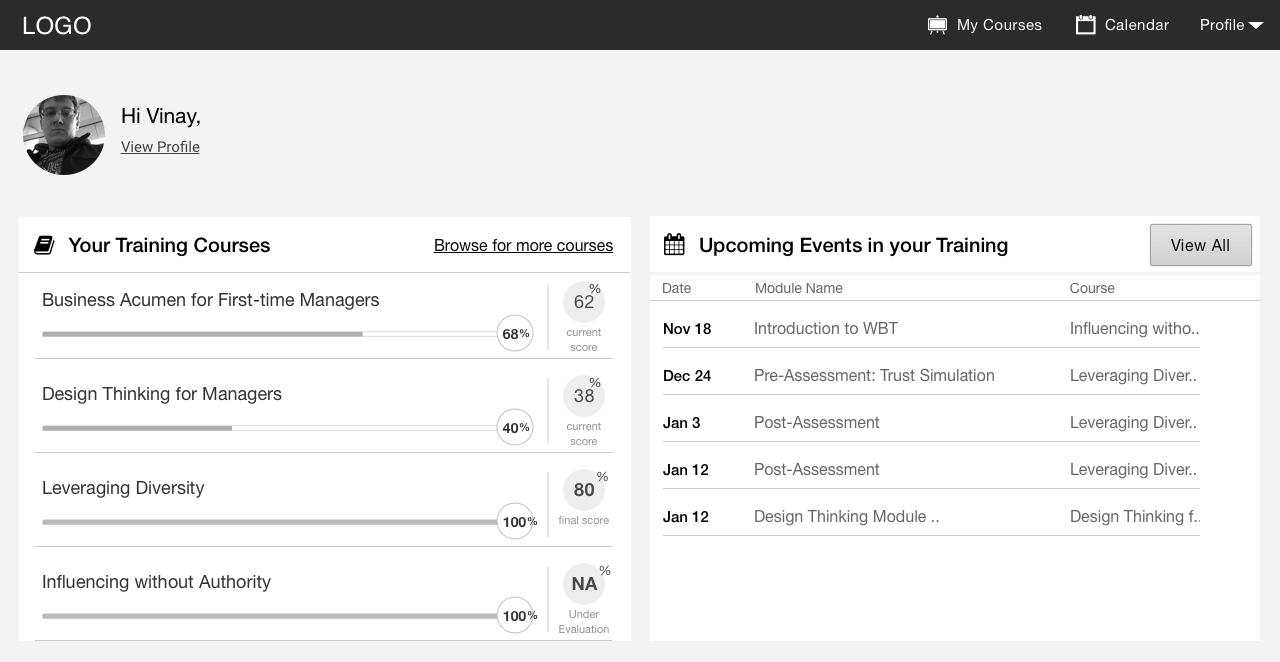
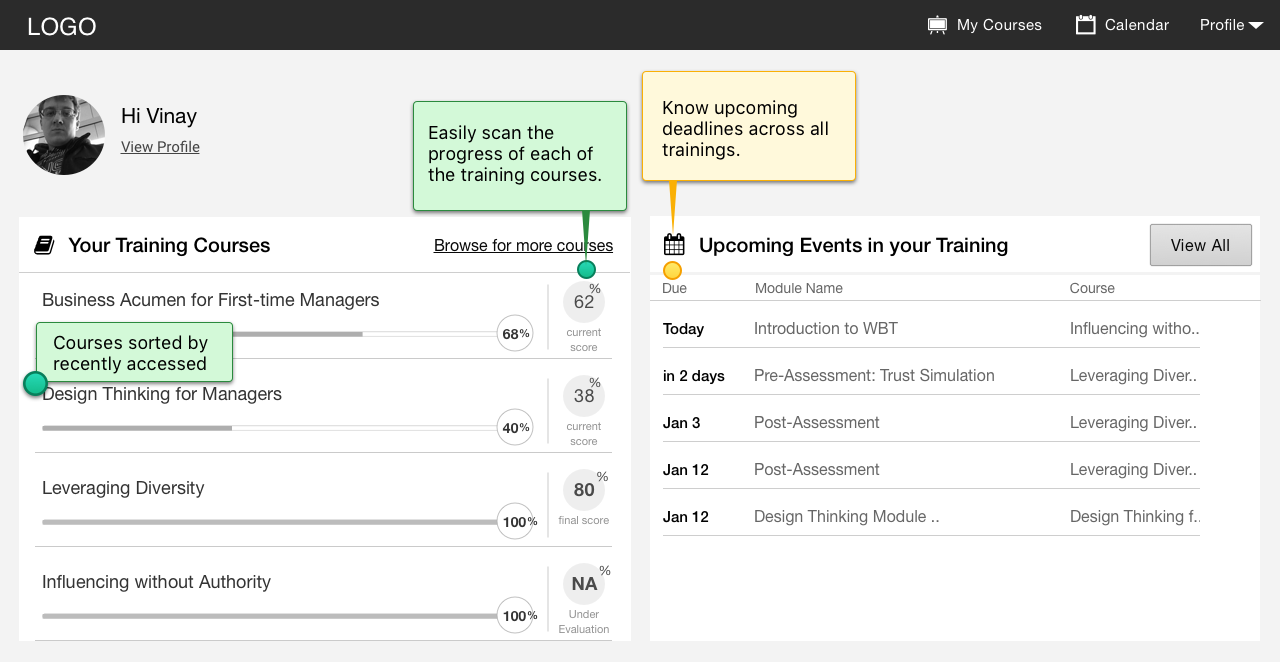
Re-writes to Aktivlearn case
Added old canvas interface images and added help texts on top of the designs to communicate better to the reader.

diff --git a/_cases/2 - aktivlearn_edited.md b/_cases/2 - aktivlearn_edited.md
@@ -26,11 +26,11 @@ My team began with making the training into a visual journey. The initial idea w
 
 ### Analysis and Diagnosis 
 
-Before we could set out to design our intended gamified ecosystem, the fundamentals needed a major revision. The usability of the open-source LMS that we were using had major issues. It needed a revival from the ground up.
+Before we could set out to design our intended gamified ecosystem, the fundamentals needed a major revision. The usability of the open-source LMS that we were using had major issues.
 
-I conducted a thorough usability review of the LMS and some of the problems unearthed are as follows:
+![img](/assets/img/cases/aktlearn/old-canvas-home.png)
 
-There is no easy way for the user to know/do the following:
+**There is no easy way for the user to know/do the following**:
 
 - What is my progress in each of the courses/trainings that I have subscribed to?
 - What are the To-Do items in each of the courses? When do I have to complete them?
@@ -38,43 +38,42 @@ There is no easy way for the user to know/do the following:
 - What is the next item in the course that I am going to take as I reach the end of the current item?
 - How to easily explore other areas of the course?
 
-One of the fundamental principles of Usability is to give the user a feeling of control. This was sorely lacking in the current version of the site. The constant feedback we got from various clients was that their learners seem to be lost in the interface.
+![img](/assets/img/cases/aktlearn/old-course-home.png)
 
-I set out to address the above issues by doing a task-analysis of a user who would go through a training scenario. I had obtained enough context from our customer development executives who communicate with the client. It was very difficult to get access to the actual learners who were undergoing the trainings as these were managers who were very busy with their schedules. Getting buy-in from L&D teams for doing user research to understand their pain points was challenging.
-
-I  compared existing online interfaces of MOOC platforms and sought out what the user would want with respect to a learning journey of 3-4 months.
-
-In my opinion, the important question for a user who comes to an online learning platform is: **What do I choose to learn today?**
+One of the fundamental principles of Usability is to give the user a feeling of control. This was sorely lacking in the current version of the site. The constant feedback we got from various clients was that their learners seem to be *lost* in the interface.
 
 ### Design and the explanation
+I set out to address the above issues by doing a task-analysis of a user who would go through a training scenario. I had obtained enough context from our customer development executives who communicate with the client.
+
+I compared existing online interfaces of MOOC platforms and sought out what the user would want with respect to a learning journey of 3-4 months.
+
+>An important question for a user who comes to an online learning platform is: 
+**_What do I learn today?_**
 
 ![img](/assets/img/cases/aktlearn/profile-home.png)
 
-The above UI addresses the following points:
+<!-- The above UI addresses the following points:
 
 - Shows the learner clearly the trainings ascribed to him along with the progress and his/her current score.
 - Courses are sorted based on most recently accessed.
-- Clearly, shows what are the to-do items for the learner across the trainings in the upcoming weeks.
+- Clearly, shows what are the to-do items for the learner across the trainings in the upcoming weeks. -->
 
-The homepage thus has multiple ways for the user to go into a course. The user could either take a decision on the most recent item, the progress metric or the To-Do item that needs his/her attention. Bringing these three items up-front means a bias for action. These elements provide a way for the user to resolve the question, "What do I choose to learn, today?"
+The re-designed homepage has multiple ways for the user to take a decision on what to learn. The learner could either pick the most recent item, or one with a good progress metric or the To-Do item that needs attention. Bringing these three items up-front means a **bias for action**.
 
-Once the user enters the course home-page, there is no place where the old LMS interface lists the name of the course! I  redesigned the course menu so that the first item lists the course name and the items of the course follow, thus communicating a clear hierarchy to the user.
-
+![img](/assets/img/cases/aktlearn/course-menu-bar.png)
 The re-designed course menu with the element next to it, the course action-bar, act as an anchor point for the learner through out the interface.
 
-![img](/assets/img/cases/aktlearn/course-pg-menu.png)
-
-The intent of the course action bar is the following:
+<!-- The intent of the course action bar is the following:
 
 1. Cues the learner to resume the training from where he/she had left off. Else, the user has to go to the course journey and process which items had been completed and then go to the respective item. 
 2. Communicate the progress of the course.
-3. Combining the cue to resume the course along with the progress bar is an element to nudge the user to get back on the track and push towards completion.
+3. Combining the cue to resume the course along with the progress bar is an element to nudge the user to get back on the track and push towards completion. -->
 
-The course action-bar element would be present on all the pages of a course that are not part of the course-content, viz., calendar, discussion pages, announcements etc. This ensures that the learner does not have to think twice about resuming the course wherever he/she is in the interface. Again, a bias for action.
+The course action-bar element would be present on all the pages of a course that are not part of the course-content, viz., calendar, discussion pages, announcements etc. This ensures that the learner does not have to think twice about resuming the course wherever he/she is in the interface. Again, *a bias for action*.
 
 ![img](/assets/img/cases/aktlearn/course-bar-todo.png)
 
-Though the home page lists the upcoming To-Do items for the user when he /she visits the course home, the course-bar also reflects an upcoming To-Do item for the user as an extra measure, whenever the due-date is fast approaching. Since the course action-bar is present in almost all the pages of the course, we have drastically reduced the ability of the learner to miss a To-do item that needs attending to. Other than this, the system would also send a reminder email to the user when an assignment needs completion.
+The course-bar reflects an upcoming To-Do item for the user, whenever the due-date of an item is fast approaching. Since the course action-bar is present in almost all the pages of the course, we have drastically reduced the ability of the learner to miss a To-do.
 
 Now that the fundamentals of the interface had been fixed, it was time to add a persuasive layer to the system that would incentivize their learning.
 
